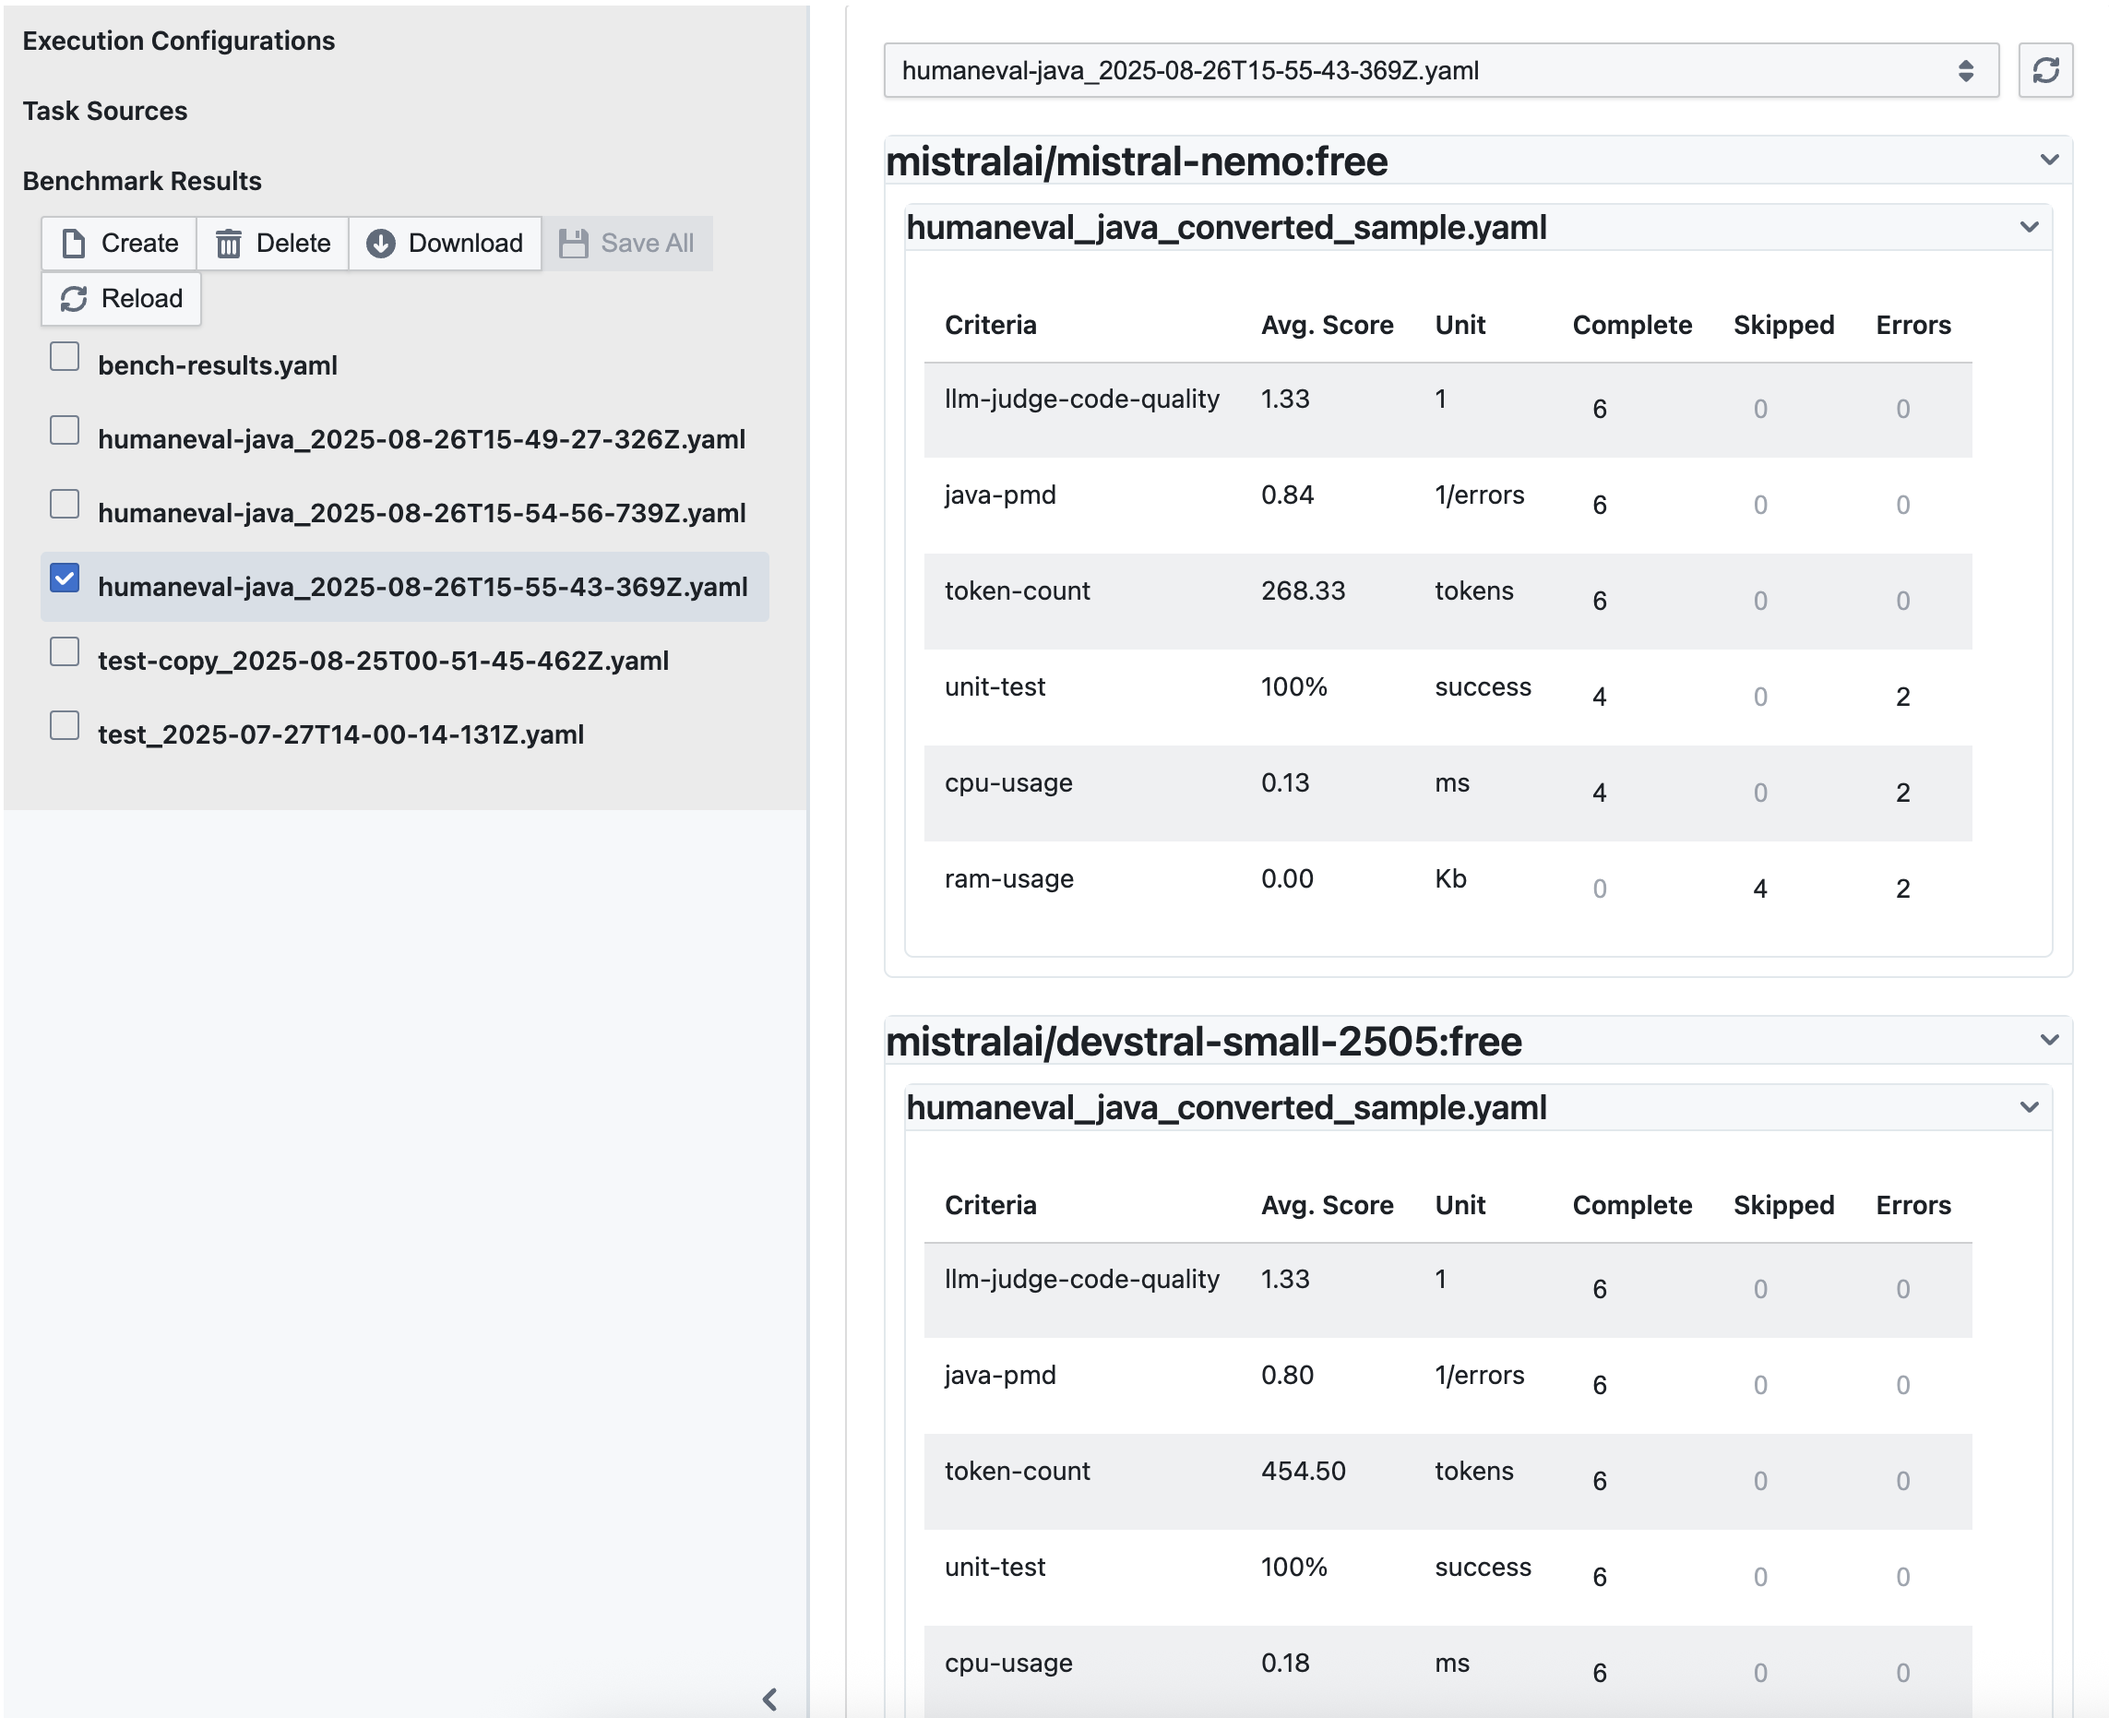
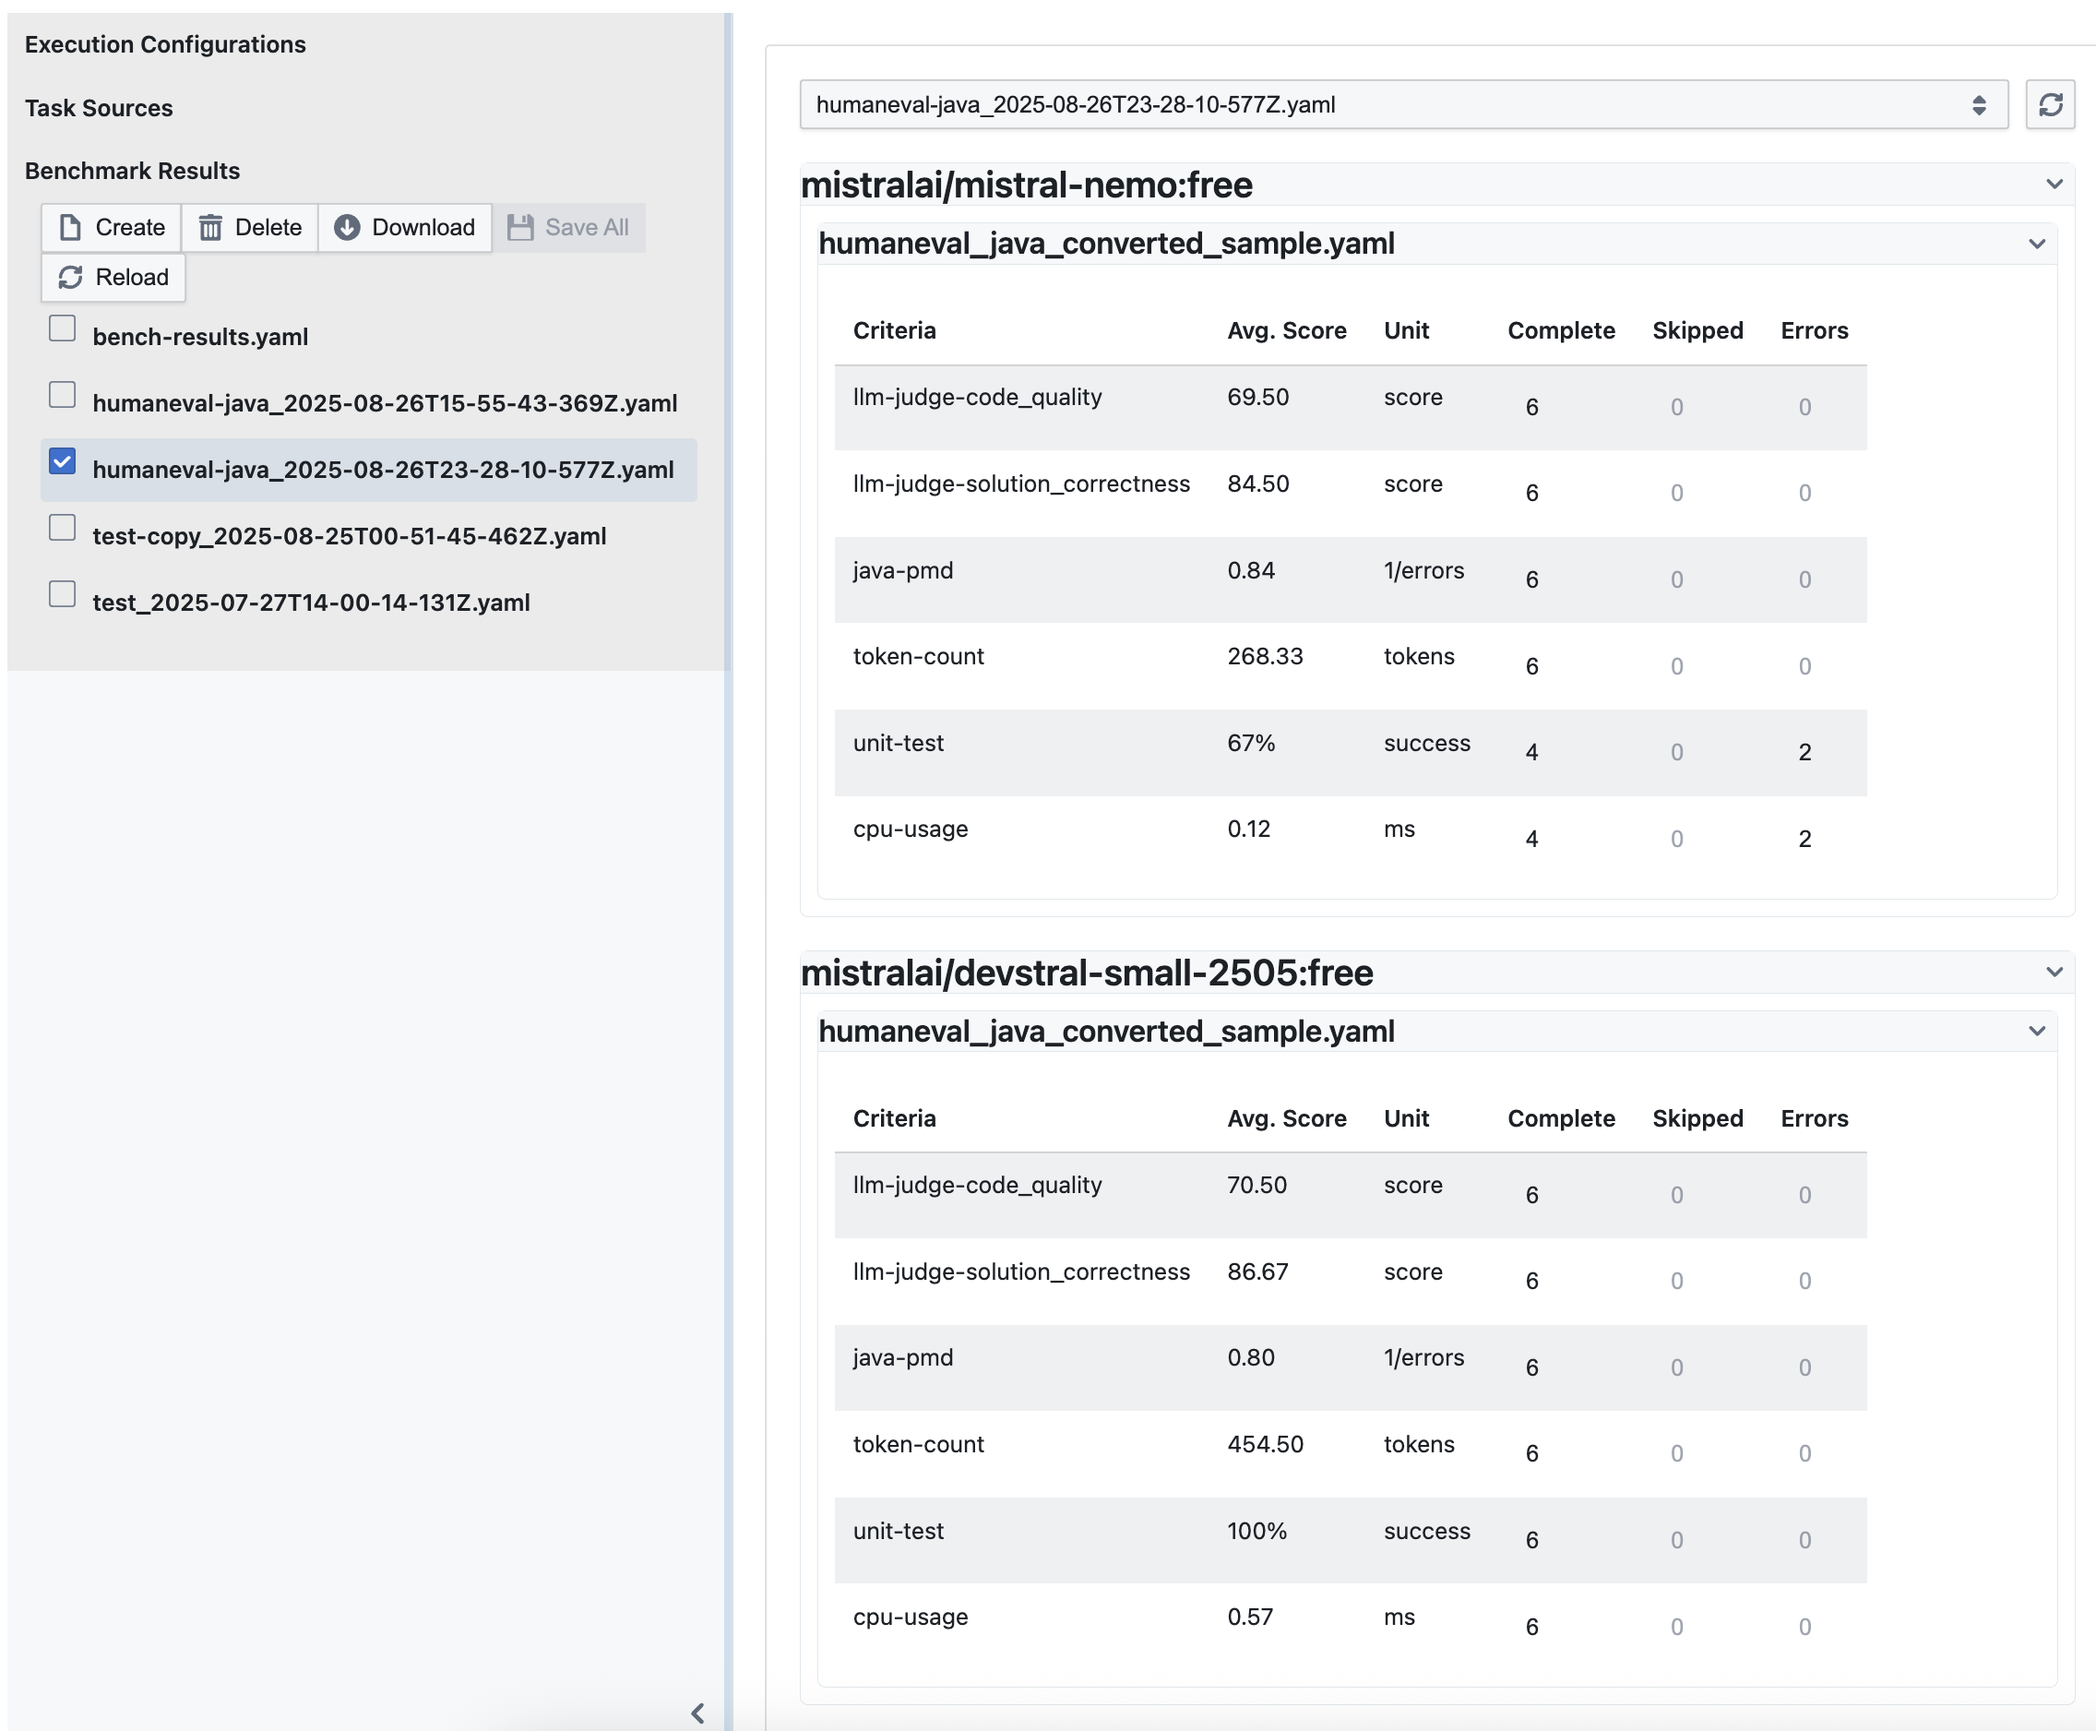
add bench result description

diff --git a/pages/05-cuerpo.tex b/pages/05-cuerpo.tex
@@ -619,11 +619,11 @@ Filtering is based on execution configuration (if this criterion is explicitly e
 The supported criteria include:
 \begin{itemize}
     \item \textbf{Unit tests in Java} --- runs the provided unit tests against the generated code using in-memory Java compiler;
-    \item \textbf{CPU usage} --- measures CPU time during test execution;
+    \item \textbf{CPU usage} --- measures CPU time during test execution in milliseconds;
     \item \textbf{LLM-as-a-judge for code quality} --- uses an LLM to evaluate the quality of the generated code based on a prompt;
-    \item \textbf{PMD} --- analyzes the generated code using PMD and collects metrics such as code smells, complexity, and potential bugs;
+    \item \textbf{PMD} --- analyzes the generated code using PMD and collects metrics such as code smells, complexity, and potential bugs, calculated from code smells and complexity, with different weights assigned to different types of issues, and normalized to a 0-1 scale;
     \item \textbf{Tokens count} --- counts the number of input and output tokens used during LLM interaction to estimate cost-effectiveness;
-    \item \textbf{Checkstyle} --- analyzes the generated code for JVM languages using Checkstyle and collects metrics such as style violations and formatting issues.
+    \item \textbf{Checkstyle} --- analyzes the generated code for JVM languages using Checkstyle and collects metrics such as style violations and formatting issues, with different weights assigned to different types of issues, and normalized to a 0-1 scale.
 \end{itemize}
 
 Criteria to be implemented in the future include:
@@ -668,6 +668,65 @@ For each test failure, the output includes the output and the exact code that wa
 
 After implementing the prototype, let's compare it with existing frameworks and discuss its advantages, limitations, and future work.
 
+\subsection{Experimental Runs}
+
+To demonstrate the functionality of the prototype, we conducted several experimental runs using different configurations and task sources.
+We selected a subset of tasks from the HumanEval dataset, focusing on easy and medium difficulty levels in Java.
+
+The execution configuration file specified the use of two LLMs: \texttt{mistralai/devstral-nemo} and \texttt{mistralai/devstral-small}.
+We enabled the following criteria for evaluation:
+\begin{itemize}
+    \item Unit tests measured in percentage of passed tests;
+    \item CPU usage during test execution measured in milliseconds;
+    \item Token count for input and output measured in number of tokens;
+    \item LLM-as-a-judge for code quality;
+    \item PMD codestyle analysis.
+\end{itemize}
+
+The benchmark was executed via the web interface, allowing us to monitor progress and view results in real-time.
+The results were collected in structured YAML files, which included detailed outputs for each task and criterion.
+
+Table~\ref{tab:benchmark-results-summary} shows a summary of the results:
+
+\begin{table}[H]
+    \centering
+    \begin{tabular}{|l|l|l|l|}
+        \hline
+        \textbf{Criteria}	& \textbf{Unit} & \textbf{mistral-nemo}	& \textbf{devstral-small-2505} \\
+        \hline
+        Parameters count    &               & 12B                   & 24B \\
+        Release date        &               & July 2024             & May 2025 \\
+        \hline
+        llm-judge-code-quality & score & 69.5 & 70.5 \\
+        llm-judge-solution-correctness & score & 84.5 & 86.67 \\
+        java-pmd & 1/errors & 0.84 & 0.8 \\
+        token-count & tokens & 268.33 & 454.5 \\
+        unit-test & success & 67\% & 100\% \\
+        cpu-usage & ms & 0.12 & 0.57 \\
+        \hline
+    \end{tabular}
+    \caption{Summary of benchmark results for two LLMs on selected tasks}
+    \label{tab:benchmark-results-summary}
+\end{table}
+
+\textbf{TO-DO: more models and tasks, maybe also with other datasets and configurations}
+
+So as we can see from this table, the smaller and newer model outperformed the larger and older one across code quality and the amount of tests passed.
+However, it used significantly more tokens and CPU time, indicating a trade-off between performance and efficiency.
+In general, the results are consistent with expectations based on the models descriptions in~\cite{mistralModelsBenchmarks}.
+
+The UI allows us to inspect detailed results for each task and criterion.
+For example, by clicking on the unit-test criterion, we can see which specific tests were passed or failed, along with the exact code that was executed.
+For example, we can take a closer look at the task 1 in HumanEval for Java which caused an error for mistral-nemo model.
+We see that there is an AssertionError that occurred on line 20 of a unit-test.
+We can understand that the code was compiled and executed successfully, but the result was incorrect due to an error in logic, and can inspect the code closer if we wish so.
+
+This level of investigation would not be possible without having the rich output, and would be more difficult without having a UI for browsing them.
+
+Thus, this example demonstrates its effectiveness of the benchmarking framework in providing detailed insights into model performance across multiple dimensions.
+
+\subsection{Comparison with Existing Frameworks}
+
 Table~\ref{tab:framework-comparison-with-proposed} compares the proposed framework with bigcode-evaluation-harness and lm-evaluation-harness.
 
 \begin{table}[H]
@@ -708,7 +767,7 @@ Table~\ref{tab:framework-comparison-with-proposed} compares the proposed framewo
 Shared environment means that the researchers use the resources more optimally.
 There is no need to set up the benchmarking in each workstation, as they can be used as thin clients.
 Every user can access the same version of the benchmark, the same versions of datasets and configurations, ensuring consistency in experiments.
-Secrets are managed in a centralized way, so there is no risk of leaking them by accident.
+Secrets for APIs are managed in a centralized way, so there is no risk of leaking them by accident.
 
 \subsection{Limitations and Scope Boundaries}
 
@@ -729,4 +788,26 @@ To be shared between different parties, the system requires implementing proper 
 
 \chapter{Conclusion}
 
+From the research perspective, this work highlights the fragmentation of existing LLM benchmarks and the lack of flexible tools to combine them.
+Current datasets are often designed for narrow purposes, making it difficult to get a comprehensive view of model performance across domains such as programming, reasoning, and factual knowledge.
+By defining tasks and execution parameters declaratively, the prototype shows that it is possible to bridge these gaps and enable more systematic comparisons
 
+The study also confirms that benchmarks cannot rely on a single type of metric.
+Traditional criteria such as unit tests and static analysis capture important aspects of correctness and quality, but they fail to address dimensions like clarity, readability, or style.
+Conversely, LLM-as-a-judge can provide insights into these qualitative aspects, though it introduces challenges of reproducibility and subjectivity.
+Taken together, these findings reinforce the importance of combining multiple evaluation approaches within a single benchmarking framework.
+
+This work presented a prototype of a modular benchmark system for large language models.
+The system integrates a backend with a REST API, a frontend interface, and a flexible configuration mechanism based on declarative YAML files.
+The prototype demonstrates that benchmark execution can combine different task sources and execution configurations, producing results that include both traditional metrics, such as unit tests and static analysis, and LLM-based evaluations.
+
+The experiments illustrate the full pipeline, from uploading task sources and configurations, to launching benchmarks, monitoring progress, and inspecting results.
+Even with a limited number of tasks and languages, the prototype proves that the proposed approach is feasible and can support diverse benchmarking scenarios.
+
+At the same time, the current implementation remains a prototype.
+It lacks isolated execution environments, which makes performance-related metrics sensitive to changes in the host system. Test execution is currently supported only for a subset of languages, and collaborative use on a shared server would require additional features such as authentication and file locking.
+Moreover, datasets need to be expanded and standardized before results could be reliably applied in research.
+
+Future work should address these limitations by improving execution isolation, extending language support, and refining the user interface.
+Security and collaboration features will be important for real-world deployment.
+Finally, validation by the research community will be essential for establishing the credibility and usefulness of the approach.
